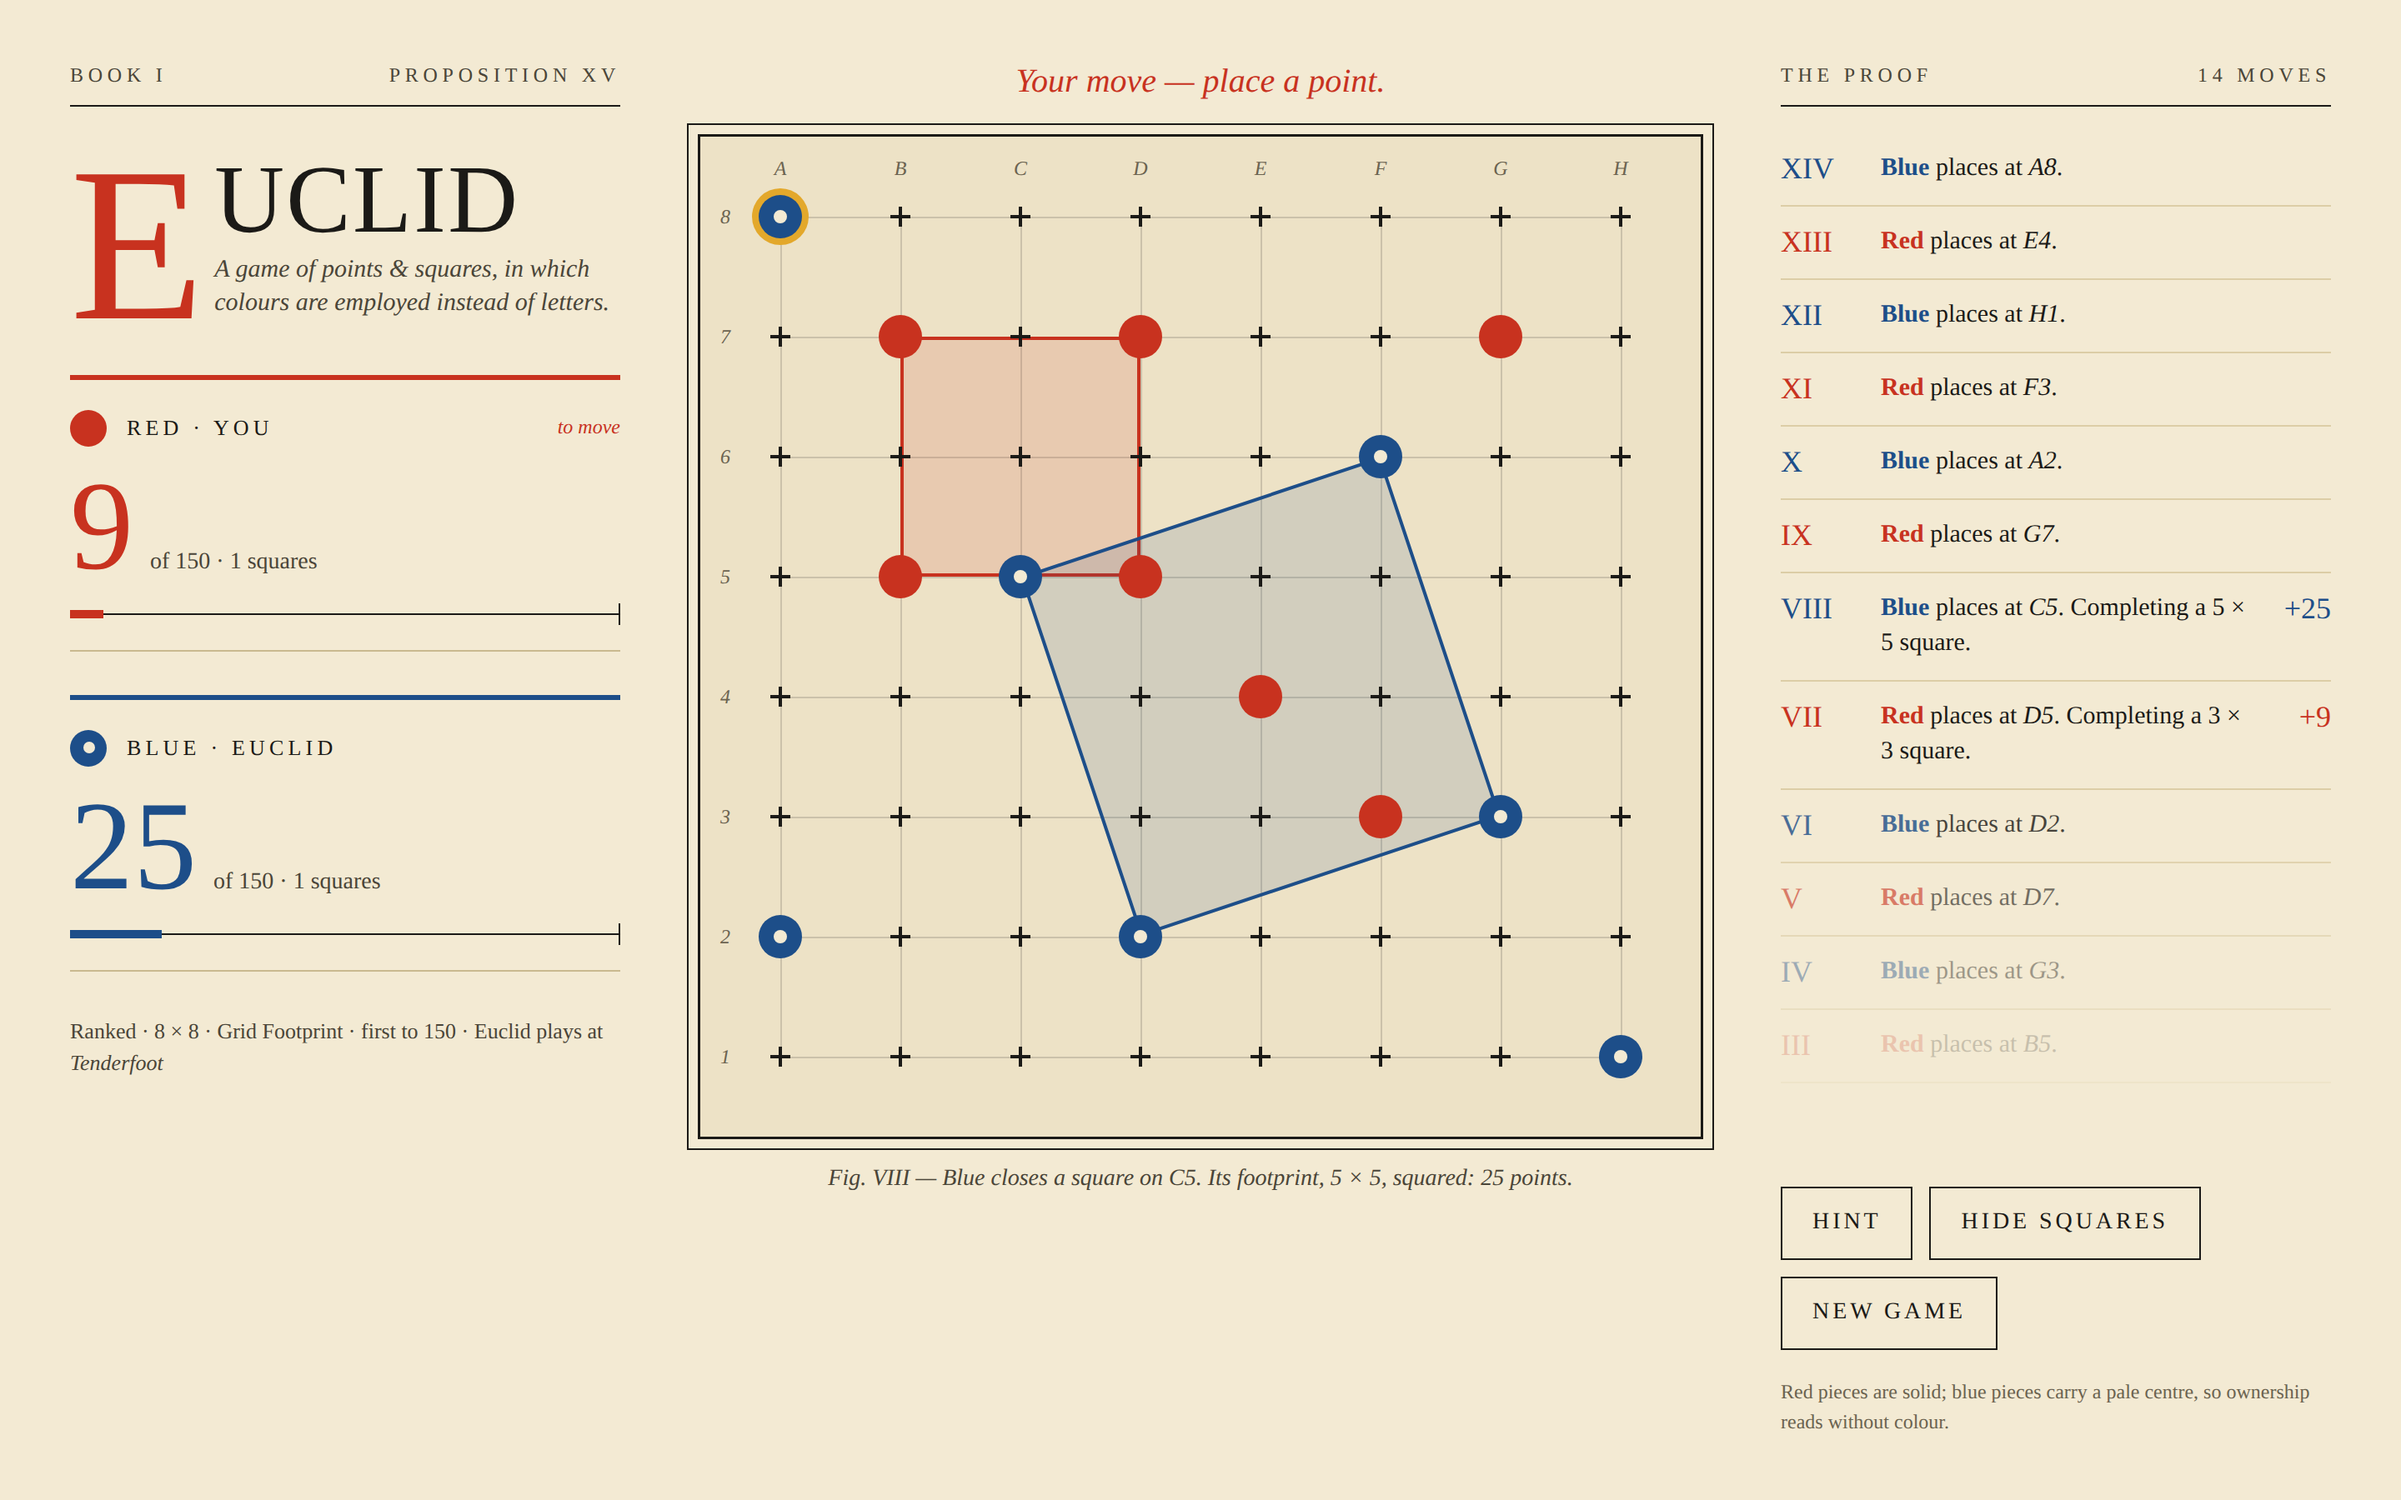
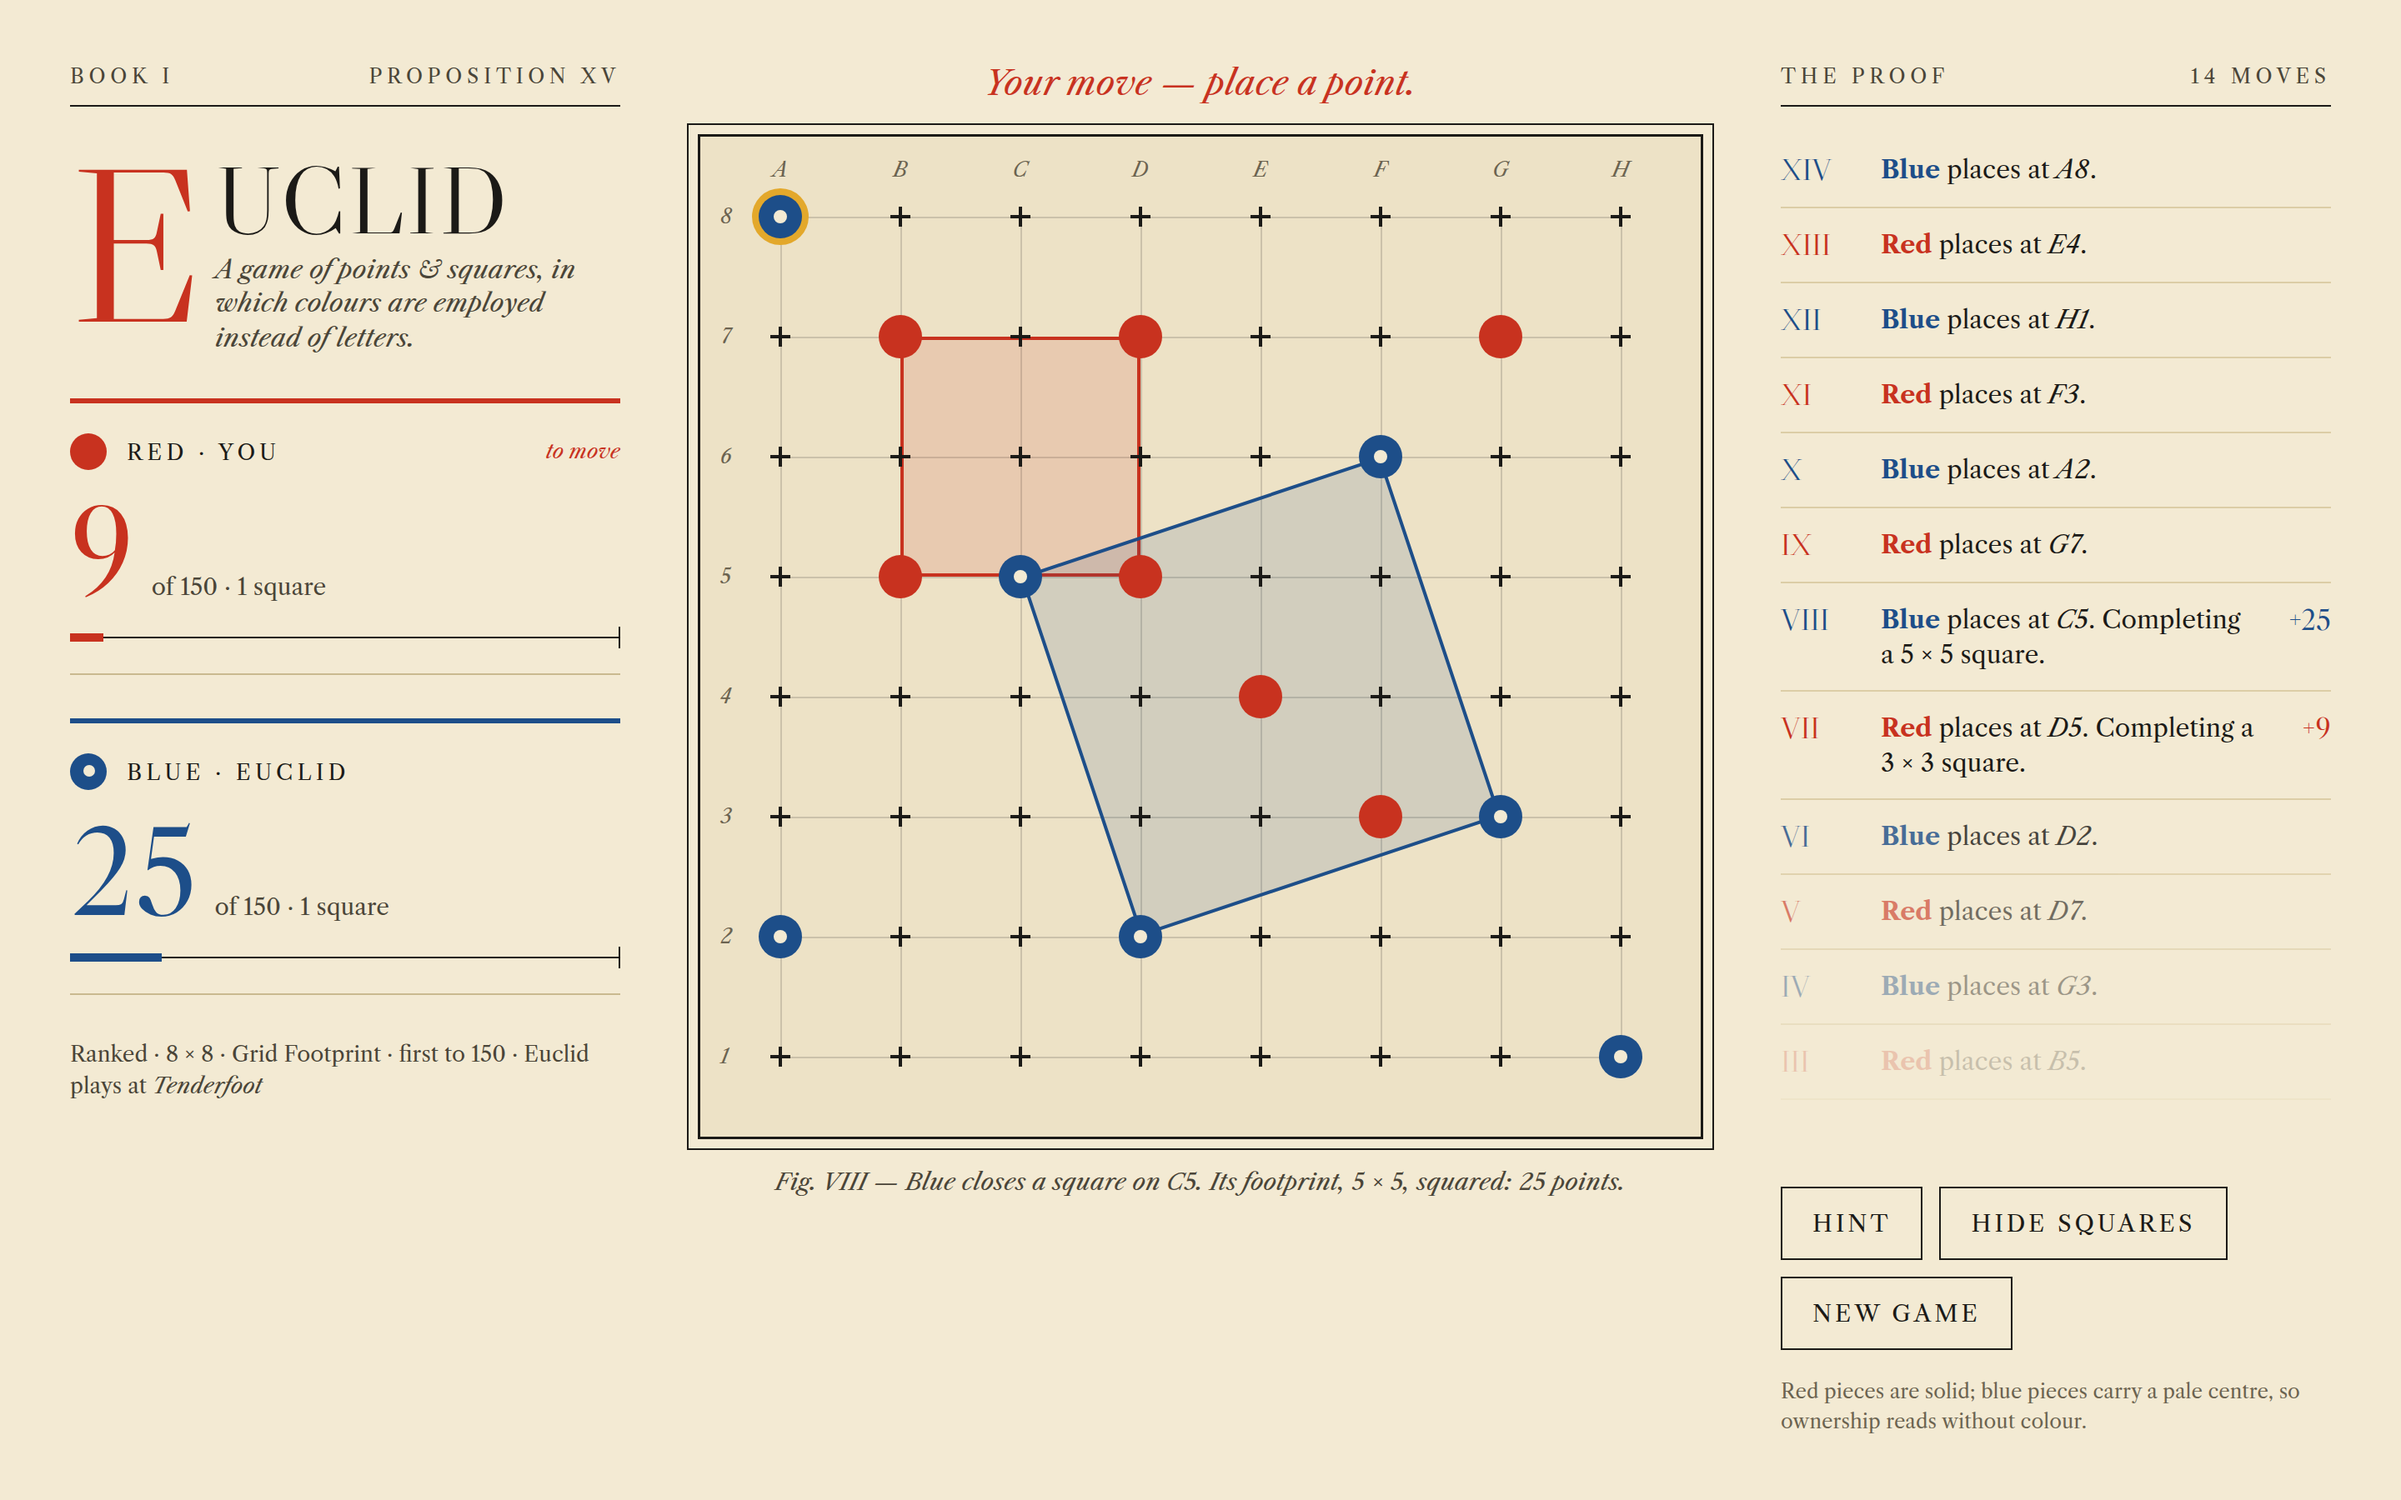
Singularise the square count in the Elements mockup

diff --git a/designs/source/13-elements.dc.html b/designs/source/13-elements.dc.html
@@ -56,7 +56,7 @@ a{color:#C8321F}a:hover{color:#8E2114}
       </div>
       <div style="display: flex; align-items: baseline; gap: 10px">
         <div style="font-family: 'Libre Caslon Display', Georgia, serif; font-size: 76px; line-height: 1; color: #C8321F">{{red.score}}</div>
-        <div style="font-size: 14px; color: #4A4538">of 150 · {{red.count}} squares</div>
+        <div style="font-size: 14px; color: #4A4538">of 150 · {{red.sq}}</div>
       </div>
       <div style="position: relative; height: 10px">
         <div style="position: absolute; left: 0; right: 0; top: 4px; height: 1px; background: #1B1A17"></div>
@@ -78,7 +78,7 @@ a{color:#C8321F}a:hover{color:#8E2114}
       </div>
       <div style="display: flex; align-items: baseline; gap: 10px">
         <div style="font-family: 'Libre Caslon Display', Georgia, serif; font-size: 76px; line-height: 1; color: #1D4E89">{{blue.score}}</div>
-        <div style="font-size: 14px; color: #4A4538">of 150 · {{blue.count}} squares</div>
+        <div style="font-size: 14px; color: #4A4538">of 150 · {{blue.sq}}</div>
       </div>
       <div style="position: relative; height: 10px">
         <div style="position: absolute; left: 0; right: 0; top: 4px; height: 1px; background: #1B1A17"></div>
@@ -318,8 +318,8 @@ class Component extends DCLogic {
     s.squares.forEach(function (q) { counts[q.owner - 1] += 1; });
     return {
       cells: cells, lines: lines, colLabels: colLabels, rowLabels: rowLabels, squares: squares, proof: proof,
-      red: { score: s.scores[0], pct: pct(s.scores[0]), count: counts[0] },
-      blue: { score: s.scores[1], pct: pct(s.scores[1]), count: counts[1] },
+      red: { score: s.scores[0], pct: pct(s.scores[0]), sq: counts[0] + (counts[0] === 1 ? ' square' : ' squares') },
+      blue: { score: s.scores[1], pct: pct(s.scores[1]), sq: counts[1] + (counts[1] === 1 ? ' square' : ' squares') },
       redTurn: !s.winner && !s.busy, blueTurn: !s.winner && s.busy,
       status: status, statusColor: s.busy ? '#1D4E89' : '#C8321F',
       caption: caption, propNo: euRoman(s.log.length + 1), moveCount: s.log.length,
